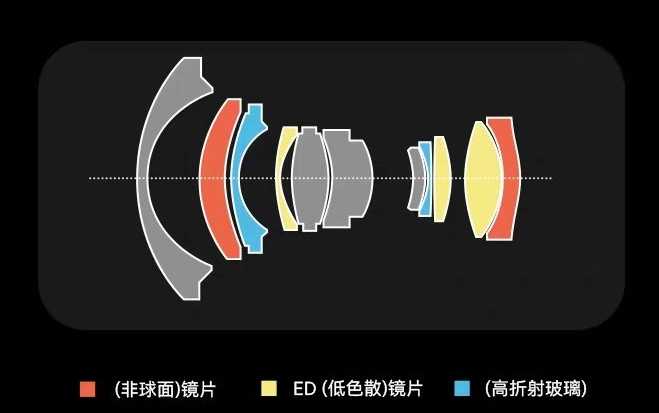
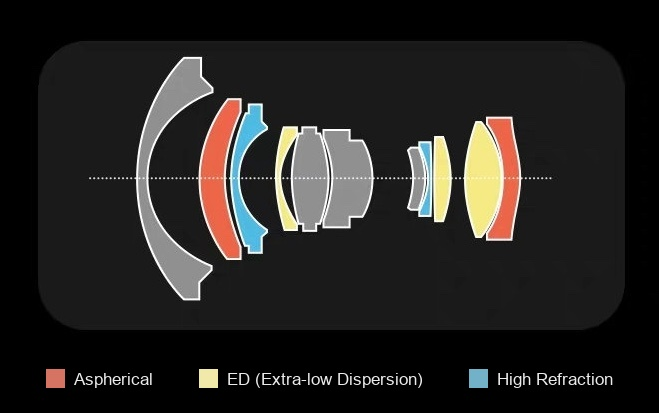
docs: translate 10mm AF diagram legend to English (#748)
The 10mm AF was the only saved construction diagram with a Chinese legend (the
others are all English). Redrew the bottom legend in English — Aspherical / ED
(Extra-low Dispersion) / High Refraction — for site consistency; the optical
cross-section is unmodified. Verbatim Chinese-legend original preserved as
construction-diagram-original.jpg for provenance.

Changed region(s): [[0.0607, 0.8717, 0.6373, 0.9879], [0.6677, 0.8717, 0.9408, 0.9588]]

diff --git a/docs/optical-specs/7artisans-10mm-f2-8-af/specs-log.md b/docs/optical-specs/7artisans-10mm-f2-8-af/specs-log.md
@@ -26,8 +26,10 @@
   verified on any reachable source, so it is NOT recorded. Left undefined.)
 - **maxMagnification:** 0.04 (LensTip id 2273, "0.04x"; DB was unset — filled this PR)
 - **constructionDiagram:** found — `construction-diagram.jpg` (clean dedicated cross-section
-  from the PhotoRumors press release, color legend red=aspherical / yellow=ED / blue=HR;
-  replaced the earlier full "Lens Parameters" composite crop)
+  from the PhotoRumors press release; legend **translated to English** for site consistency:
+  red=Aspherical / yellow=ED (Extra-low Dispersion) / blue=High Refraction. The diagram
+  itself is unmodified; only the bottom legend text was redrawn. The verbatim Chinese-legend
+  original is preserved as `construction-diagram-original.jpg`.)
 - **MTF chart:** found — `mtf-chart.jpg` (official; OTF vs Y-field 0–14.2mm, T1-T3 / S1-S3. NOTE: the official page swaps the labels — the file captioned "AF/MF Switch Button" is the real MTF, the one captioned "MTF" is the construction diagram.)
 
 ## Caveats
